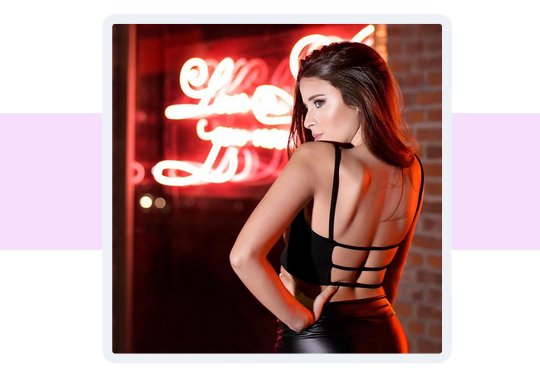
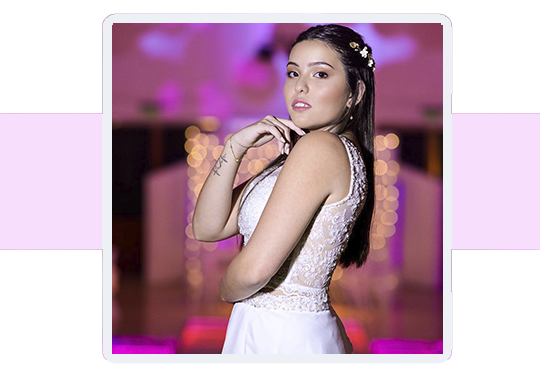
detallando

diff --git a/portfolio2.html b/portfolio2.html
@@ -97,7 +97,7 @@
     <section id="about3">
 <div id="hola">    
 <div class="container">
-<h5>Julieta </h5>
+<h5>Ludmila </h5>
 
 
         <div class="row about3-extra">
@@ -108,17 +108,21 @@
     <li data-target="#carouselExampleIndicators" data-slide-to="0" class="active"></li>
     <li data-target="#carouselExampleIndicators" data-slide-to="1"></li>
     <li data-target="#carouselExampleIndicators" data-slide-to="2"></li>
+    <li data-target="#carouselExampleIndicators" data-slide-to="3"></li>
   </ol>
   <div class="carousel-inner">
     <div class="carousel-item active">
-      <img class="d-block w-100" src="./Image/Julieta2.jpg" alt="First slide">
+      <img class="d-block w-100" src="./Image/7a.jpg" alt="First slide">
     </div>
     <div class="carousel-item">
-      <img class="d-block w-100" src="./Image/Julieta3.jpg" alt="Second slide">
+      <img class="d-block w-100" src="./Image/4a.jpg" alt="Second slide">
     </div>
     <div class="carousel-item">
-      <img class="d-block w-100" src="./Image/Julieta4.jpg" alt="Third slide">
+      <img class="d-block w-100" src="./Image/5a.jpg" alt="Third slide">
     </div>
+    <div class="carousel-item">
+        <img class="d-block w-100" src="./Image/8a.jpg" alt="Third slide">
+      </div>
   </div>
   <a class="carousel-control-prev" href="#carouselExampleIndicators" role="button" data-slide="prev">
     <span class="carousel-control-prev-icon" aria-hidden="true"></span>
@@ -139,9 +143,9 @@
 <div class="container"> 
         <div class="row about3-extra">
           <div class="col-lg-8 wow fadeInUp order-1 order-lg-2">
-           <h4> Julieta </h4>
+           <h4> Ludmila </h4>
             <p>
-              Adéntrate en un viaje en el tiempo con estas fotos, que capturan la belleza de un cumpleaños de 15 en un antiguo y majestuoso hotel. Con detalles de épocas pasadas, el esplendor arquitectónico, los vestidos elegantes y la alegría compartida dan vida a una celebración mágica e inolvidable. ¡Revive la elegancia y encanto de tiempos pasados en cada instantánea!
+                Desde que la gente llegó, ya se veía que sería algo increíble. Todo el mundo se vistió de lujo y la decoración estaba súper elegante, como en una película. La pista de baile estaba que explotaba, todos moviéndose y riendo juntos. Cuando la quinceañera apagó las velitas del pastel, todos gritamos y aplaudimos como locos. Hubo fuegos artificiales que nos dejaron boquiabiertos y nos sorprendieron con regalos y sorpresas alucinantes. En fin, fue una fiesta inolvidable y mega genial. ¡Qué noche!
             </p>
                  
           </div>
@@ -149,9 +153,9 @@
           <div class="col-lg-4 wow fadeInUp pt-4 pt-lg-0 order-2 order-lg-1">
             
             <p class="titulodestacado">
-             Cliente </p> <p class="titulonormal"> Julieta Di Pascuacio </p><br>
+             Cliente </p> <p class="titulonormal"> Ludmila Pescara </p><br>
              <p class="titulodestacado">Año </p> <p class="titulonormal"> 2022</p><br>
-             <p class="titulodestacado">Campaña </p> <p class="titulonormal">#Vintagelove</p><br>
+             <p class="titulodestacado">Campaña </p> <p class="titulonormal">#15Fest</p><br>
             
                   
          

diff --git a/equipo.html b/equipo.html
@@ -50,8 +50,9 @@
    
           <li class="drop-down"><a href="index.html#portfolio">Portfolio</a>
             <ul>
-            
-              <li><a href="portfolio.html">Dino</a></li>
+              
+              <li><a href="portfolio2.html">Ludmila</a></li>
+              <li><a href="portfolio.html">Julieta</a></li>
            
             </ul>
           </li>          

diff --git a/novedades2.html b/novedades2.html
@@ -49,7 +49,8 @@
           <li class="drop-down"><a href="index.html#portfolio">Portfolio</a>
             <ul>
               
-              <li><a href="portfolio.html">Dino</a></li>
+              <li><a href="portfolio2.html">Ludmila</a></li>
+              <li><a href="portfolio.html">Julieta</a></li>
            
             </ul>
           </li>          

diff --git a/novedades.html b/novedades.html
@@ -49,7 +49,8 @@
           <li class="drop-down"><a href="index.html#portfolio">Portfolio</a>
             <ul>
              
-              <li><a href="portfolio.html">Dino</a></li>
+              <li><a href="portfolio2.html">Ludmila</a></li>
+              <li><a href="portfolio.html">Julieta</a></li>
            
             </ul>
           </li>          

diff --git a/index.html b/index.html
@@ -56,8 +56,10 @@
    
           <li class="drop-down"><a href="#portfolio">Portfolio</a>
             <ul>
-            
+
+              <li><a href="portfolio2.html">Ludmila</a></li>
               <li><a href="portfolio.html">Julieta</a></li>
+              
            
             </ul>
           </li>          
